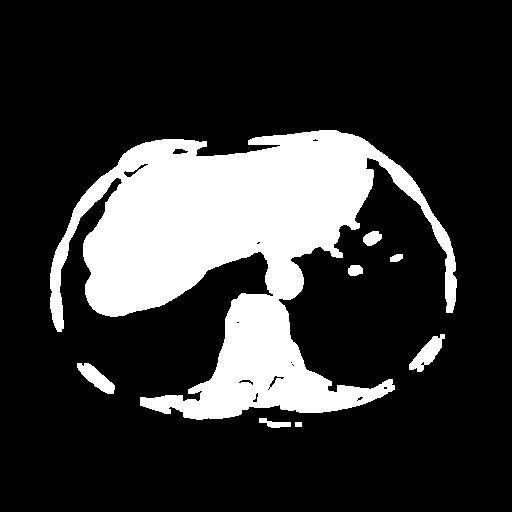
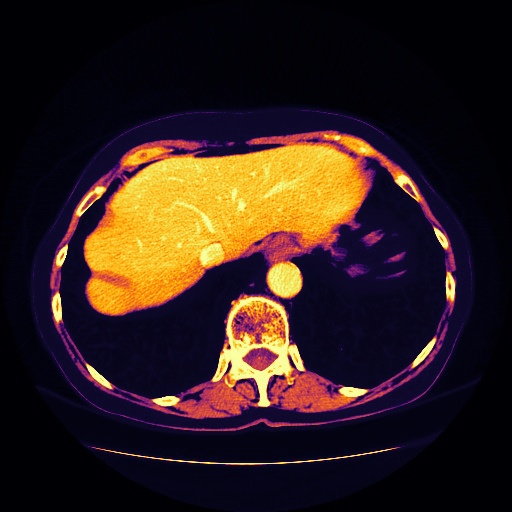
Updated result page

diff --git a/templates/base.html b/templates/base.html
@@ -103,7 +103,7 @@
                   {% if ses == True %}
                       <span class="navbar-text">{{ name }}</span>
                       {% else %}
-                      <button type="button" class="btn btn-primary me-3" aria-controls="#picker-editor">
+                      <button type="button" class="btn btn-link px-3 me-2" aria-controls="#picker-editor">
                         <a class="nav-link" href="{{url_for('signup')}}">Signup</a>
                       </button> 
                     {% endif %}

diff --git a/templates/index.html b/templates/index.html
@@ -90,7 +90,7 @@
                   {% if ses == True %}
                       <span class="navbar-text">{{ name }}</span>
                       {% else %}
-                      <button type="button" class="btn btn-primary me-3" aria-controls="#picker-editor">
+                      <button type="button" class="btn btn-link px-3 me-2" aria-controls="#picker-editor">
                         <a class="nav-link" href="{{url_for('signup')}}">Signup</a>
                       </button> 
                     {% endif %}

diff --git a/app.py b/app.py
@@ -63,12 +63,7 @@ def malignantBeningCheck(count):
 
 
 def process_img(img, add_pixels_value=0):
-    img = cv2.cvtColor(img, cv2.COLOR_BGR2GRAY)
-    img = cv2.GaussianBlur(img, (5, 5), 0)
-    # Thresholding the image, and performing a series of erosions + dilations to remove any regions of noise
-    thresh = cv2.threshold(img, 45, 255, cv2.THRESH_BINARY)[1]
-    thresh = cv2.erode(thresh, None, iterations=2)
-    new_img = cv2.dilate(thresh, None, iterations=2)
+    new_img = cv2.applyColorMap(img, cv2.COLORMAP_INFERNO)
 
     return np.array(new_img, dtype=object)
 
@@ -81,6 +76,8 @@ def mainPage():
     if request.method == 'POST':
         for filename in os.listdir('static/'):
             if filename.startswith('work'):  # not to remove other images
+                os.remove('static/' + filename)
+            if filename.startswith('scan'):
                 os.remove('static/' + filename)
                 
         file = request.files['mri']
@@ -99,8 +96,10 @@ def mainPage():
             file.save(filepath)
             img = cv2.imread("./static/"+timeStamp)
             img_array = process_img(img)
-            cv2.imwrite("assets/new/Y32.jpg", np.float32(img_array))
-            img_get = cv2.imread("assets/new/Y32.jpg")
+            img_path0 ="scan" + str(time.time()) + ".jpg"
+            img_path = "static/"+img_path0
+            cv2.imwrite(img_path, np.float32(img_array))
+            img_get = cv2.imread(img_path)
             img_fin = cv2.resize(img_get, (512, 512))
             img_array = np.array(img_fin)
             print(img_array.shape)
@@ -137,7 +136,7 @@ def mainPage():
 
 
             #print(prediction)
-            return render_template("result.html", img = timeStamp, predicted_results= predicted_results, size_result = size_result,
+            return render_template("result.html", img = img_path0, predicted_results= predicted_results, size_result = size_result,
              ses=ses,name=name, error="")
     return render_template("index.html",name= name, ses=ses, error="")
 
